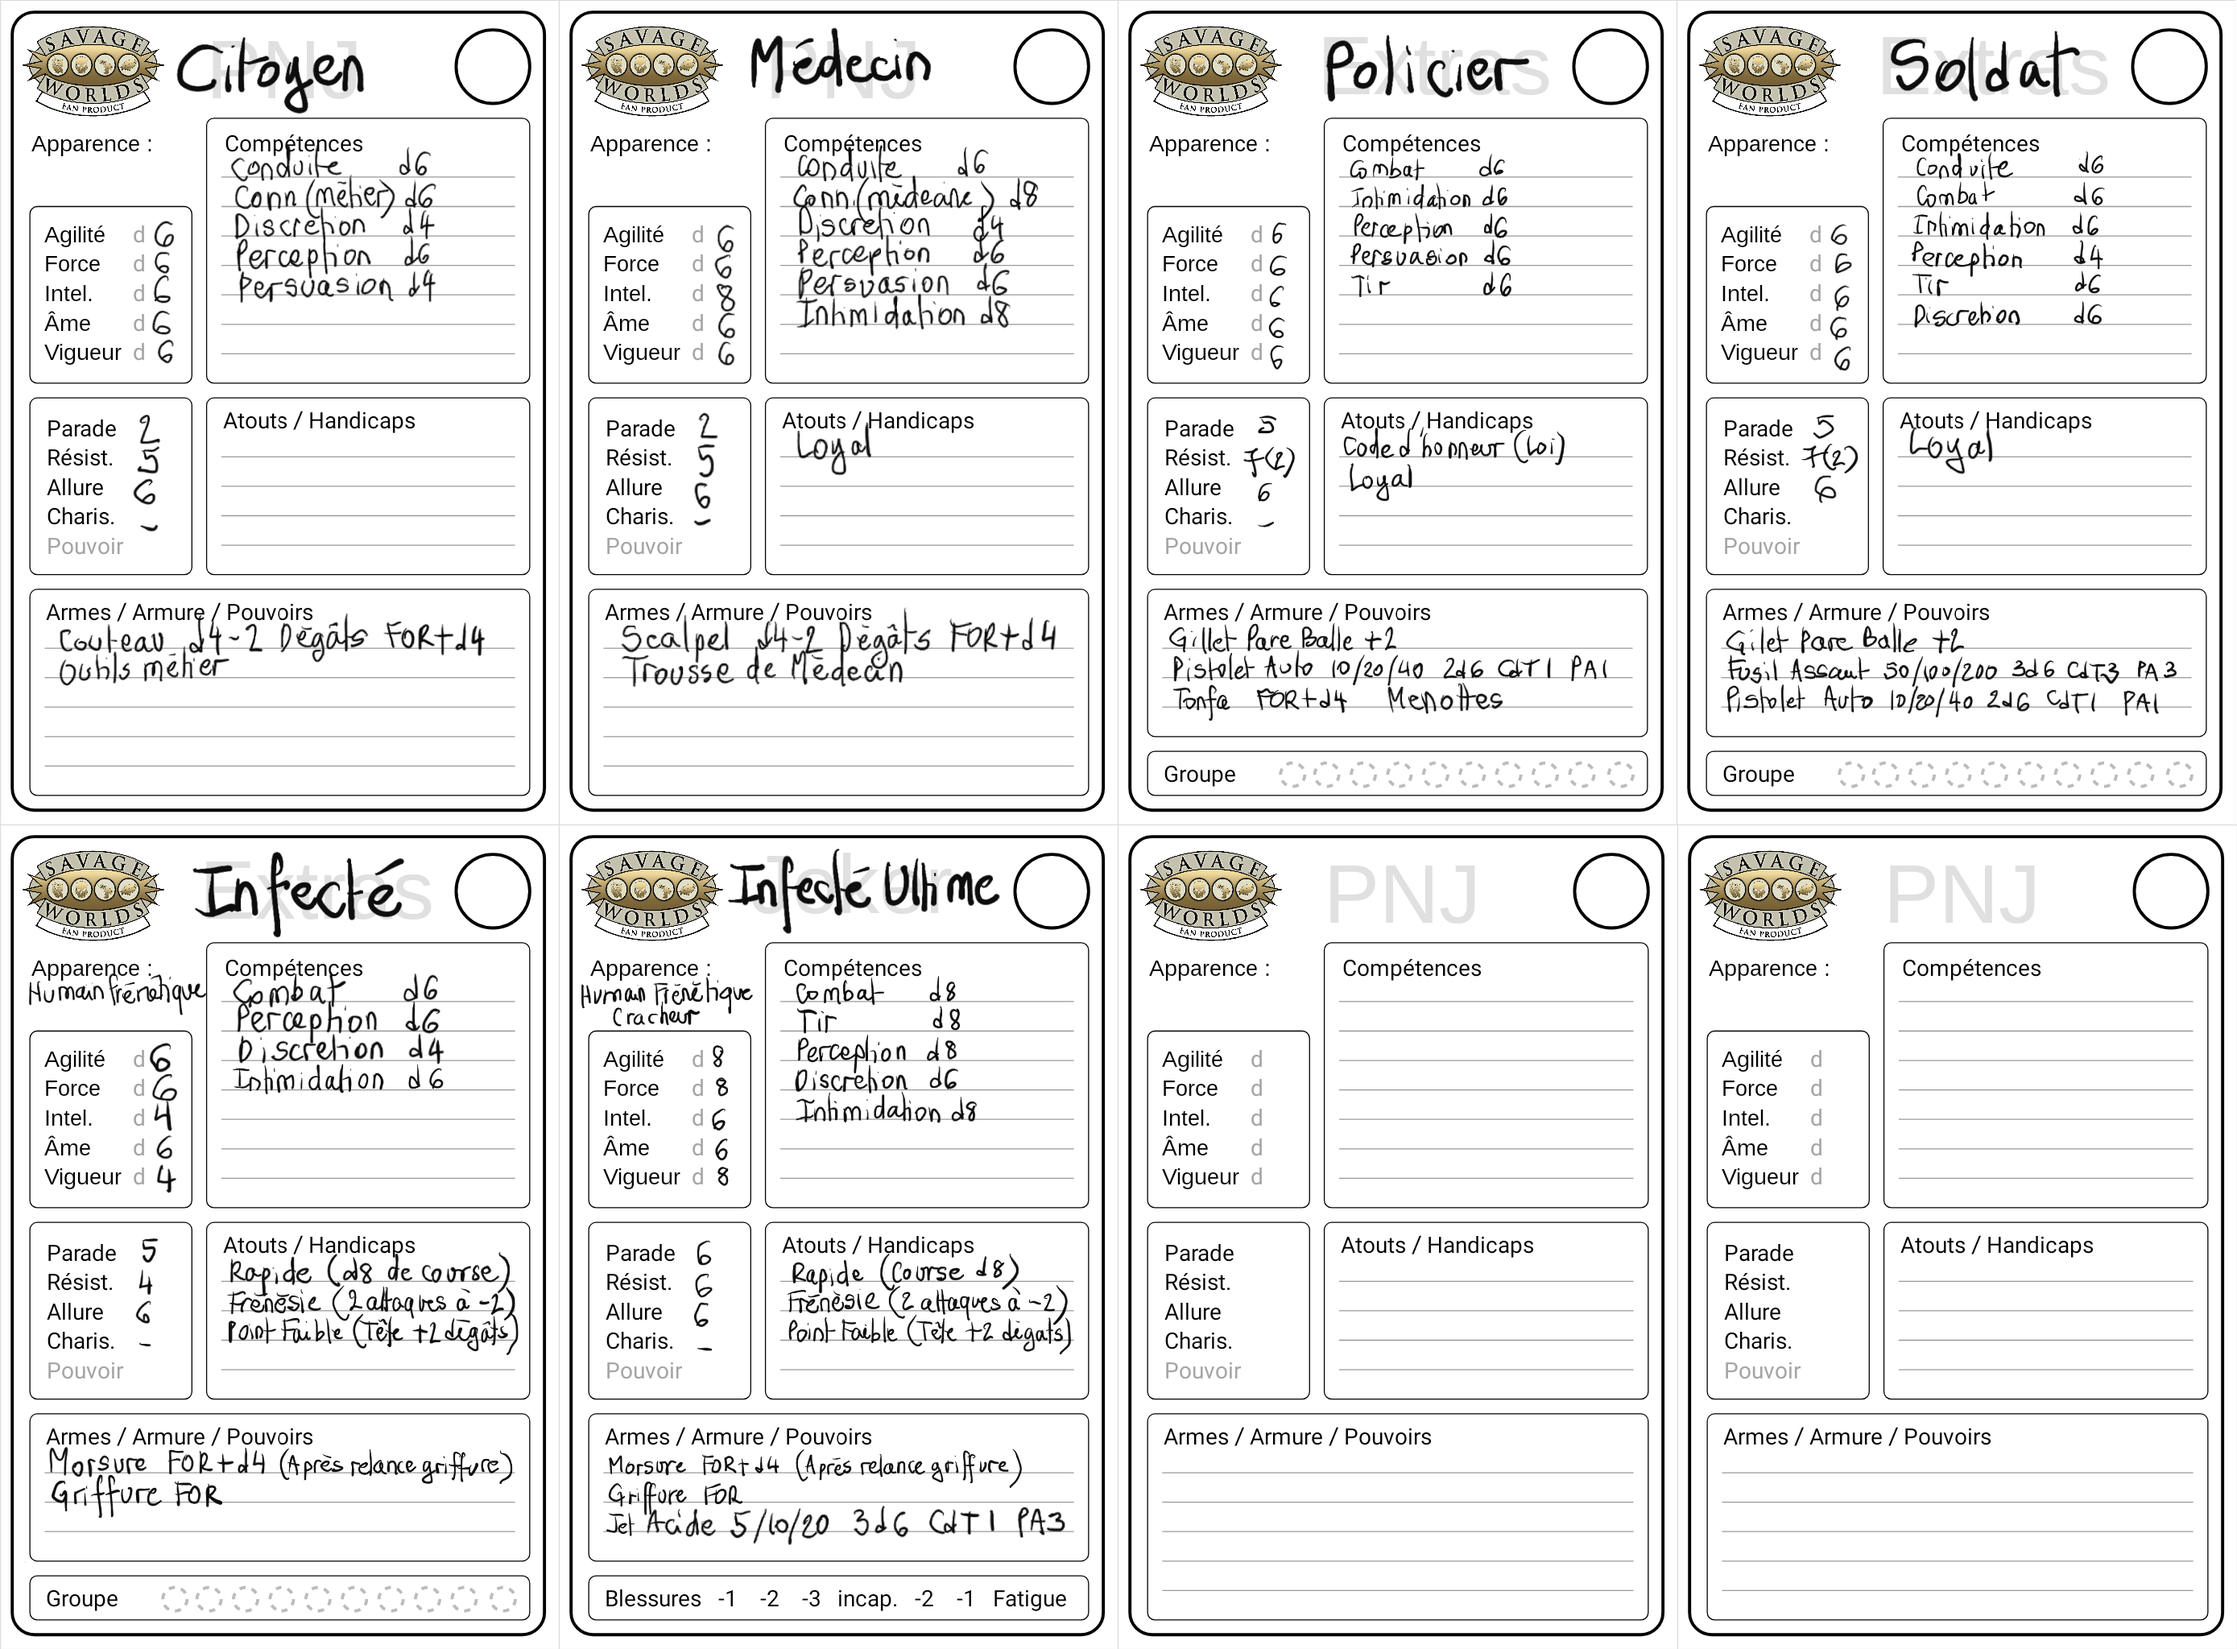
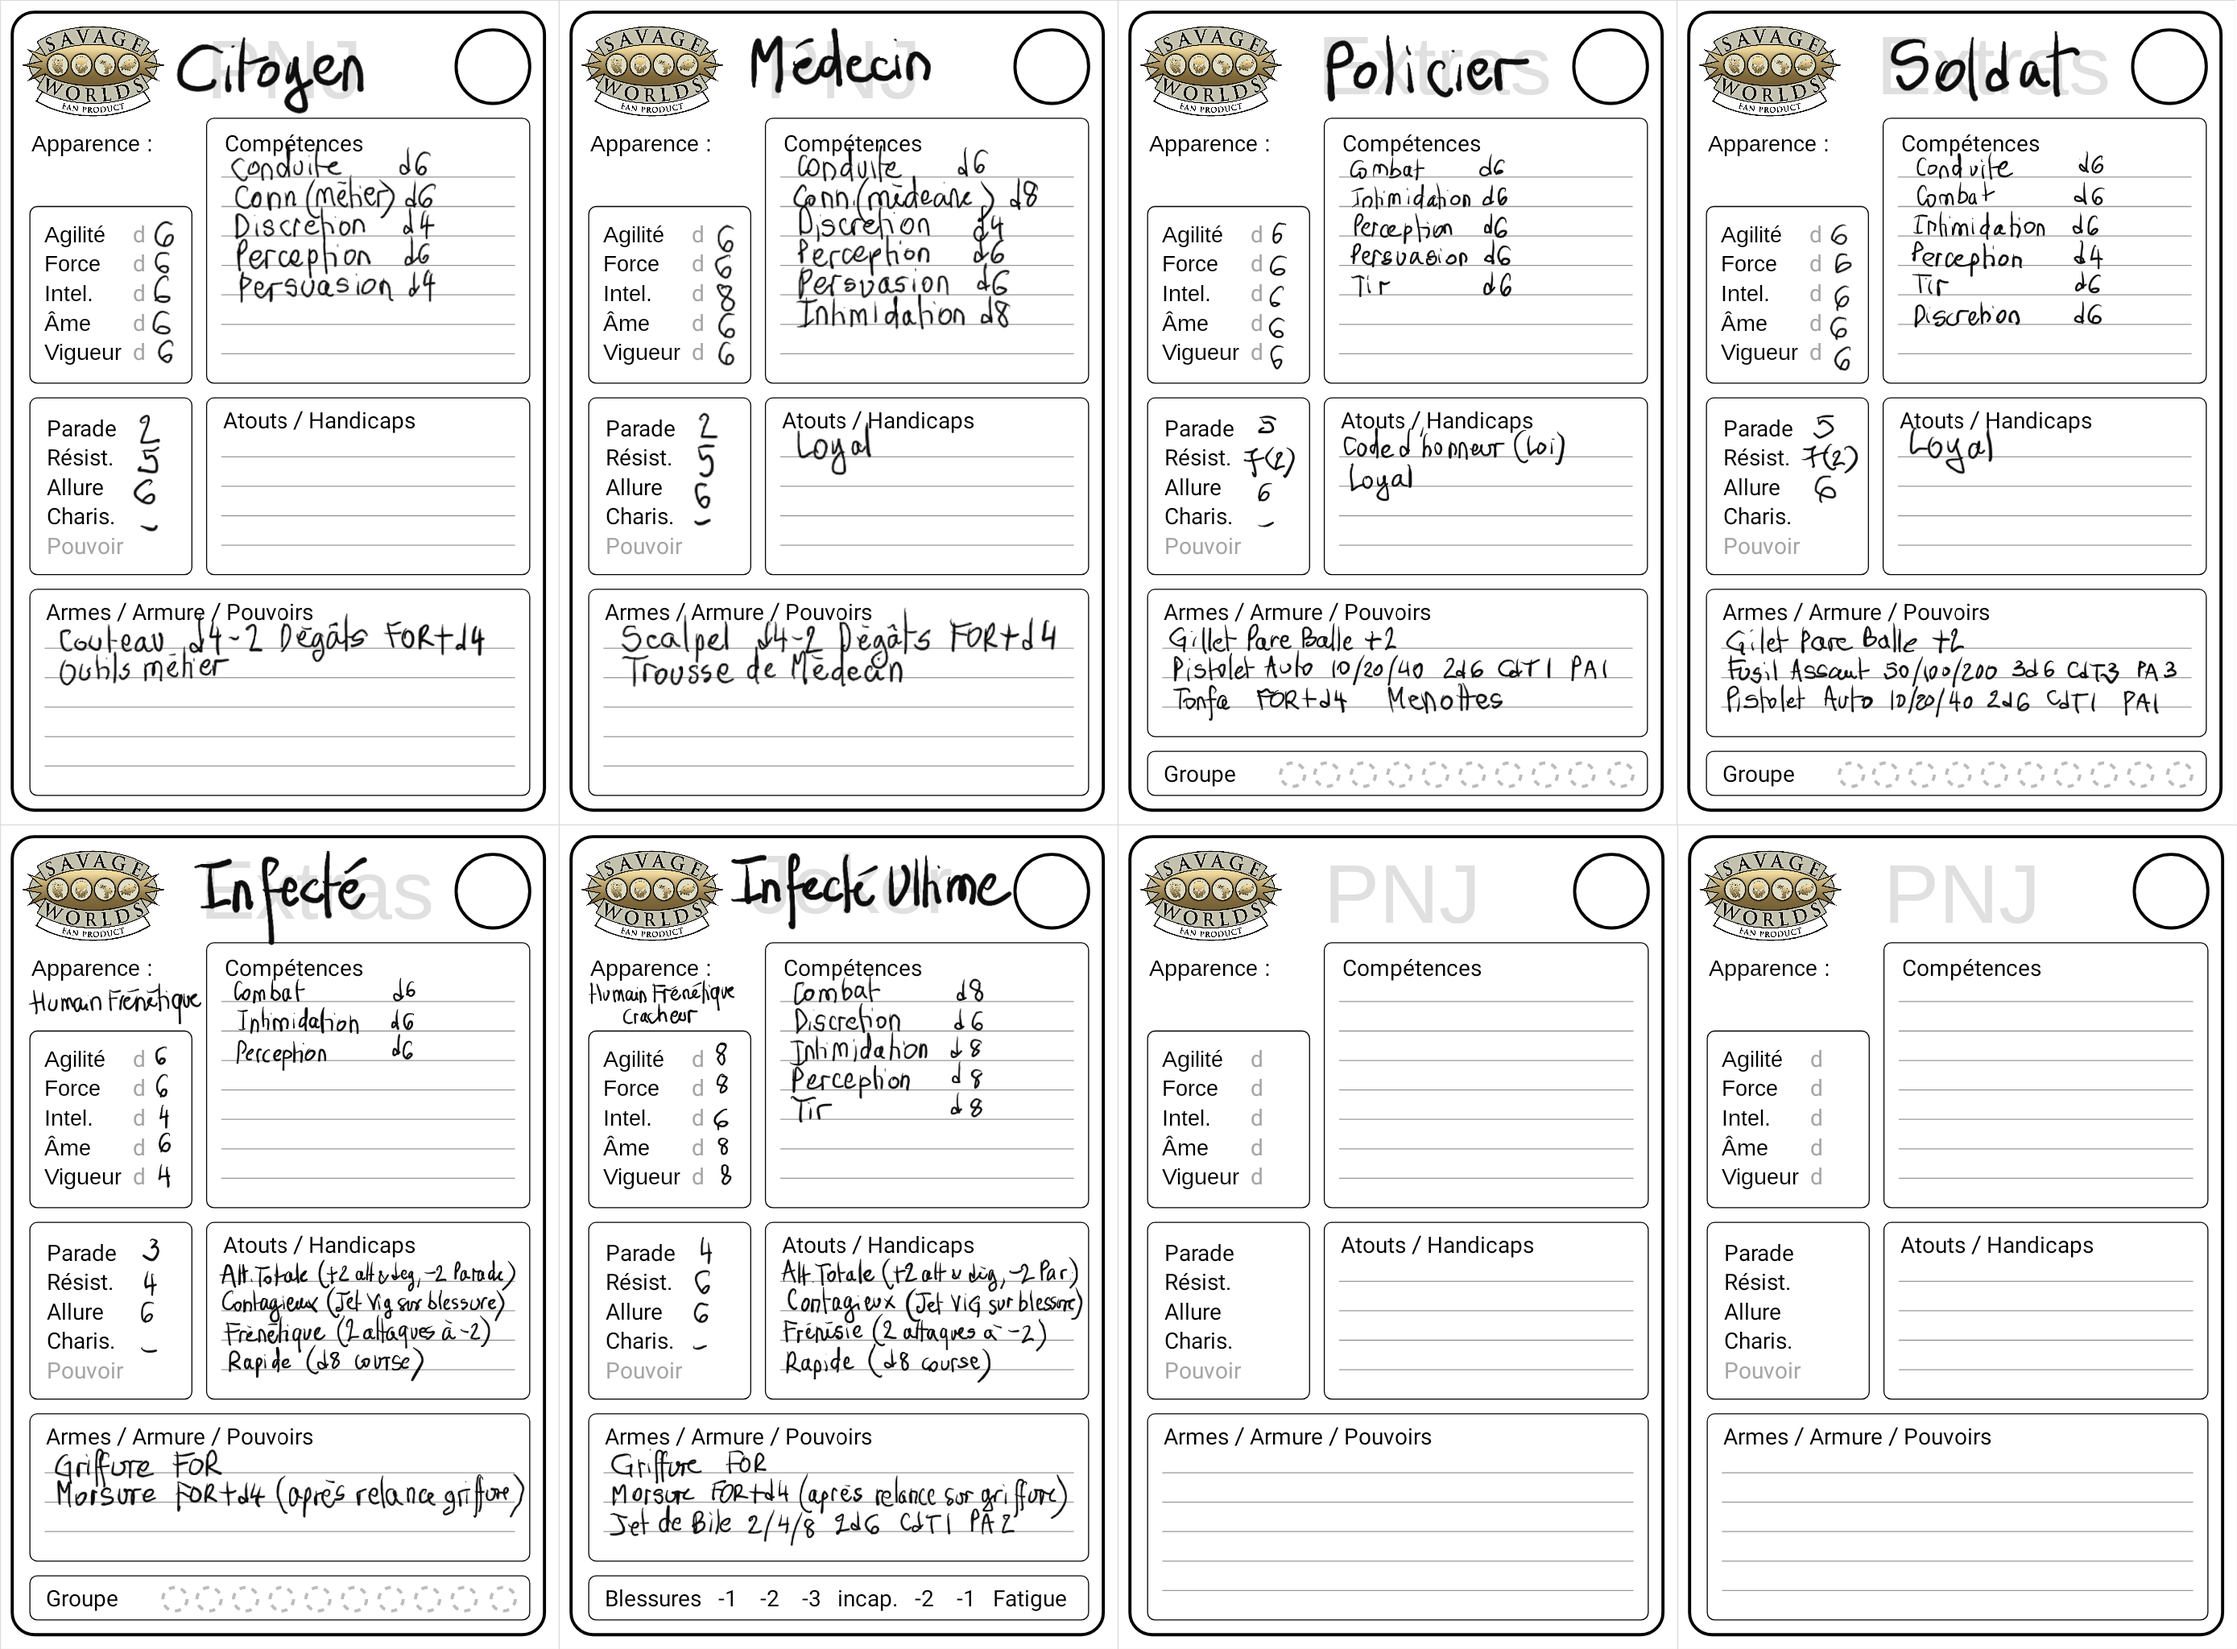
Corrections mineures

diff --git a/content/article/sawo-zombie-apocalypse.md b/content/article/sawo-zombie-apocalypse.md
@@ -13,11 +13,11 @@ Par le plus grand des hasards, je suis tombé sur la critique du jeu [Fin du Mon
 
 <!--more-->
 
-**Si vous êtes joueur et pensez jouer un jour à ce jeu, n'allez pas plus loin, vous gâcheriez votre plaisir de jouer !**
-
 ![](sawo-zombie-apocalypse.png)
 
-[Fin du Monde - Apocalypse Zombie](http://www.edgeent.fr/jeux/article/la_fin_du_monde/apocalypse_zombie) est un jeu de rôle d'origine Espagnole qui fait partie de la série *Fin du Monde* qui explore trois fins du monde (Apocalypse Zombie, Invasion Extraterrestre et Colère des Dieux). On peut acheter l'ouvrage en ligne ou dans sa boutique favorite pour 40 € environ. On peut aussi acheter le PDF en ligne [sur le site fliphtml5.com en français pour 15 €](http://fliphtml5.com/bookcase/pneds) ou [sur drivethrurpg en anglais pour 20 $ environ](https://www.drivethrurpg.com/product/141786/The-End-Of-The-World-Zombie-Apocalypse). Sur les deux sites on peut télécharger les ouvrages au format PDF sans DRM.
+**Si vous êtes joueur et pensez jouer un jour à ce jeu, n'allez pas plus loin, vous gâcheriez votre plaisir de jouer !**
+
+[Fin du Monde - Apocalypse Zombie](http://www.edgeent.fr/jeux/article/la_fin_du_monde/apocalypse_zombie) est un jeu de rôle d'origine Espagnole qui fait partie de la série *Fin du Monde* qui explore trois fins du monde différentes (Apocalypse Zombie, Invasion Extraterrestre et Colère des Dieux). On peut acheter l'ouvrage en ligne ou dans sa boutique favorite pour 40 € environ. On peut aussi acheter le PDF en ligne [sur le site fliphtml5.com en français pour 15 €](http://fliphtml5.com/bookcase/pneds) ou [sur drivethrurpg en anglais pour 20 $ environ](https://www.drivethrurpg.com/product/141786/The-End-Of-The-World-Zombie-Apocalypse). Sur les deux sites on peut télécharger les ouvrages au format PDF sans DRM.
 
 Le principe du jeu est que les joueurs se jouent eux même lors de l'apocalypse zombie. Il faut donc commencer par créer son personnage avec les règles de Savage Worlds, ce qui est assez amusant comme début de partie. Je conseille d'appliquer la règle d'univers *La Naissance d'un Héros* de manière à ce que les joueurs puissent appliquer tous les Atouts à partir du moment où c'est justifié par leur propre histoire. D'autre part, pour rendre l'univers plus réaliste, j'applique la règle *Dégâts Handicapants*.
 
@@ -25,11 +25,11 @@ Lorsque les joueurs ont terminé leur personnage, la partie la plus délicate du
 
 Le reste de la partie consiste a faire jouer aux joueurs leur propre rôle dans une apocalypse zombie qui se déroule dans leur environnement. La partie fait donc une large part à l'improvisation, mais il est préférable de préparer quelques PNJs typiques, comme un policier, un soldat, un médecin, etc. On devra aussi préparer les zombies.
 
-L'ouvrage propose 5 types de zombies différents, avec une cause différente pour l'infection à chaque fois. Un virus pour les infectés, qui sont rapides et agiles, des parasites, des sorciers Vaudou, etc... Pour chaque type, on a un scénario pour le début de l'apocalypse et un autre post apocalypse ainsi qu'une chronologie des événements. Les scénarios sont constitués de lieux et pistes d'histoires. L'ouvrage fait 150 pages environ et seules 24 pages sont consacrées aux règles. L'essentiel est donc utile pour un usage avec Savage Worlds.
+L'ouvrage propose 5 types de zombies différents, avec une cause différente pour l'infection à chaque fois. Un virus pour les infectés, qui sont rapides et agiles, des parasites, des sorciers Vaudou, etc... Pour chaque type, on a un scénario pour le début de l'apocalypse et un autre post apocalypse ainsi qu'une chronologie des événements. Les scénarios sont constitués de lieux et de pistes d'histoires. L'ouvrage fait 150 pages environ et seules 24 pages sont consacrées aux règles. L'essentiel est donc utile pour un usage avec Savage Worlds.
 
-Au final mes joueurs ont apprécié leur séance de jeu et je compte les faire rejouer pour des parties one-shot, lorsque des joueurs sont absents lors d'une campagne par exemple. C'est pratique comme bouche trou car la préparation est minimaliste, le setting est très vite expliqué et des joueurs peuvent être ajoutés en cours de partie sans problème.
+Au final mes joueurs ont apprécié leur séance de jeu et je compte les faire rejouer pour des parties one-shot, lorsque des joueurs sont absents lors d'une campagne par exemple. C'est pratique comme bouche trou car la préparation est minimaliste, le setting est très vite expliqué et des joueurs peuvent être ajoutés ou sortis en cours de campagne sans problème.
 
-Voici [une planche de cartes de personnages](sawo-zombie-apocalypse-persos.png) que j'ai préparés pour ma partie. Ce sont des PNJs classiques (citoyen, médecin, policier et militaire) ainsi que des zombies en mode infecté, qui sont des personnes infectées par un virus qui les rend fou furieux et les pousse à mordre (comme le fait le virus de la rage pour les animaux). Ils doivent avoir réussi une attaque par griffure avec relance (et ainsi saisi leur victime) pour pouvoir mordre au tour suivant.
+Voici [une planche de cartes de personnages](sawo-zombie-apocalypse-persos.png) que j'ai préparés pour ma partie. Ce sont des PNJs classiques (citoyen, médecin, policier et militaire) ainsi que des zombies en mode infecté, qui sont des personnes infectées par un virus qui les rend fou furieux et les pousse à mordre, comme le fait le virus de la rage pour les animaux. Ils doivent avoir réussi une attaque par griffure avec relance, et ainsi avoir saisi leur victime, pour pouvoir mordre au tour suivant. Le zombie ultime est une version plus puissante qui a le pouvoir de cracher des jets de bile et est encore un souvenir de ses capacités humaines.
 
 ![](sawo-zombie-apocalypse-biohazard.png)
 
